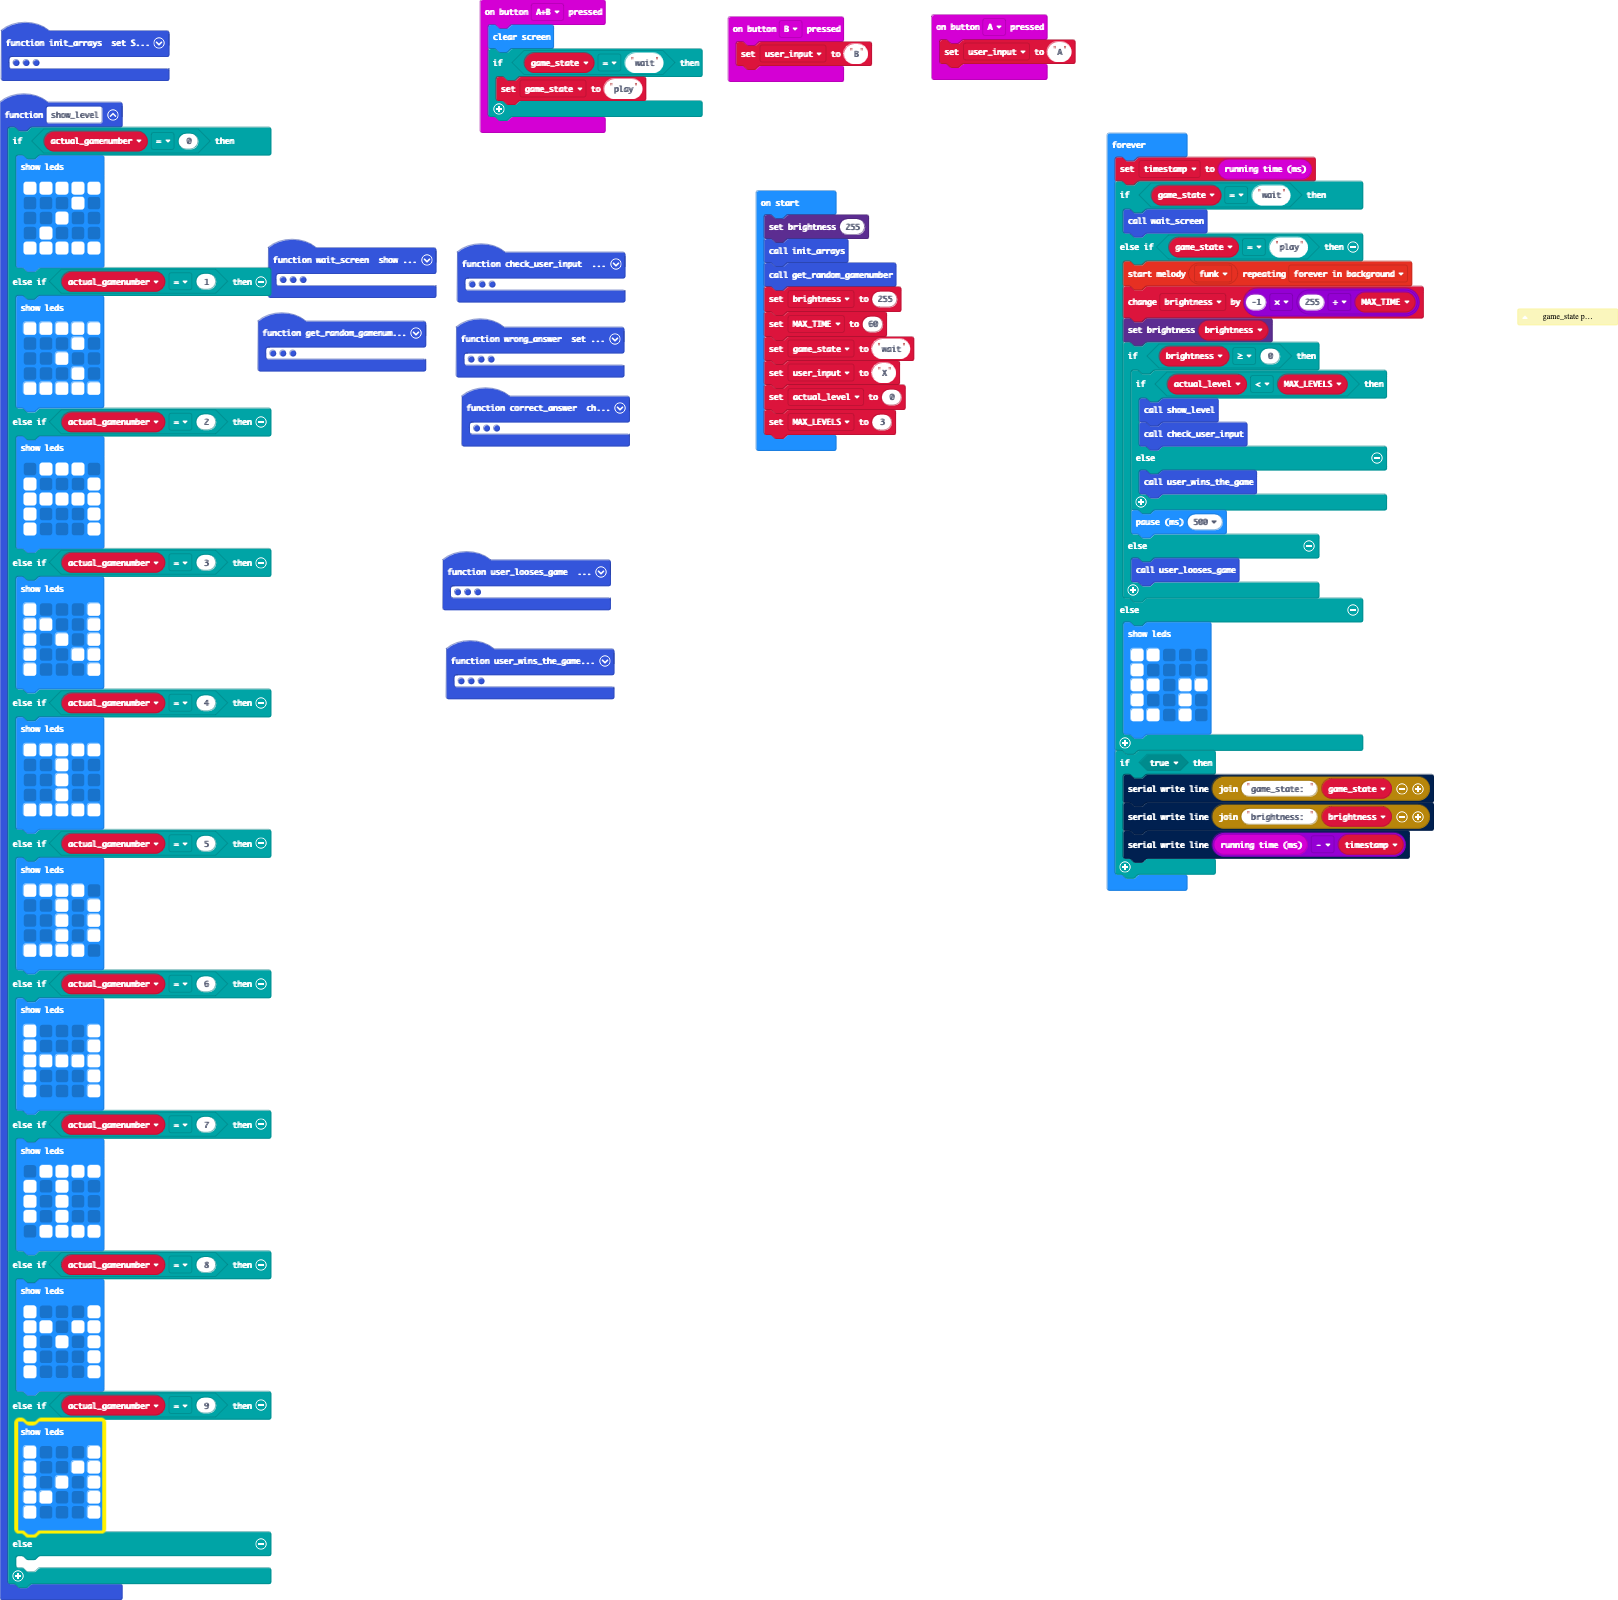
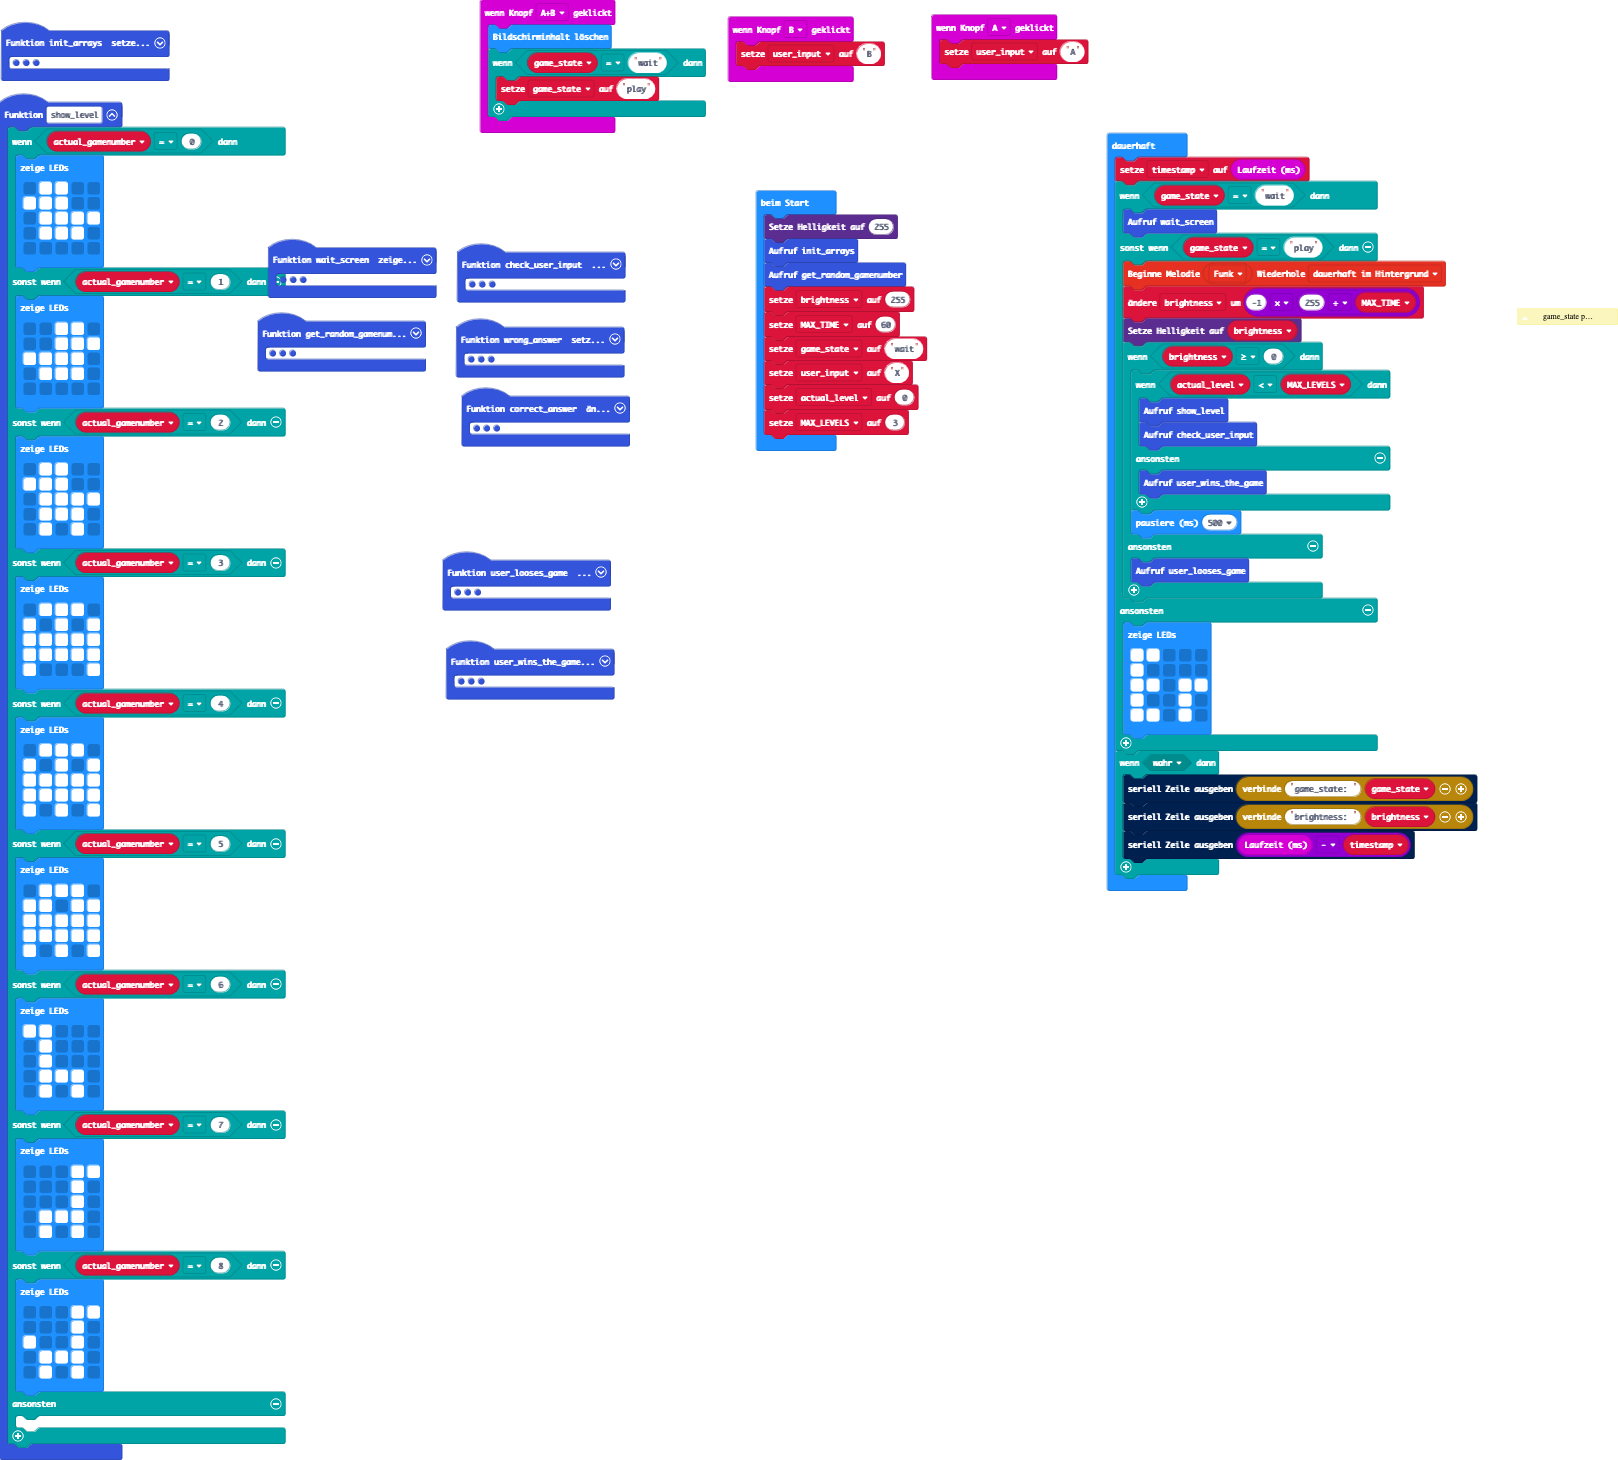
add pattern animals

diff --git a/main.ts b/main.ts
@@ -73,83 +73,75 @@ function correct_answer () {
 function show_level () {
     if (actual_gamenumber == 0) {
         basic.showLeds(`
-            # # # # #
-            . . . # .
-            . . # . .
-            . # . . .
-            # # # # #
+            . # # . .
+            # # # . .
+            . # # # #
+            . # # # .
+            . . . . .
             `)
     } else if (actual_gamenumber == 1) {
         basic.showLeds(`
-            # # # # #
-            . . . # .
-            . . # . .
-            . . . # .
-            # # # # #
+            . . # # .
+            . . # # #
+            # # # # .
+            . # # # .
+            . . . . .
             `)
     } else if (actual_gamenumber == 2) {
         basic.showLeds(`
+            . # # . .
+            # # # . .
+            . # # # #
             . # # # .
-            # . . . #
-            # # # # #
-            # . . . #
-            # . . . #
+            . # . # .
             `)
     } else if (actual_gamenumber == 3) {
         basic.showLeds(`
-            # . . . #
-            # # . . #
+            . # # # .
             # . # . #
-            # . . # #
+            # # # # #
+            # # # # #
             # . . . #
             `)
     } else if (actual_gamenumber == 4) {
         basic.showLeds(`
+            . # # # .
+            # . # . #
             # # # # #
-            . . # . .
-            . . # . .
-            . . # . .
             # # # # #
+            # . # . #
             `)
     } else if (actual_gamenumber == 5) {
         basic.showLeds(`
-            # # # # .
-            . . # . #
-            . . # . #
-            . . # . #
-            # # # # .
+            . # # # .
+            # # . # #
+            # # # # #
+            # # # # #
+            # . # . #
             `)
     } else if (actual_gamenumber == 6) {
         basic.showLeds(`
-            # . . . #
-            # . . . #
-            # # # # #
-            # . . . #
-            # . . . #
+            # # . . .
+            . # . . .
+            . # . . .
+            . # # # .
+            . # . # .
             `)
     } else if (actual_gamenumber == 7) {
         basic.showLeds(`
-            . # # # #
-            # . # . .
-            # . # . .
-            # . # . .
-            . # # # #
+            . . . # #
+            . . . # .
+            . . . # .
+            . # # # .
+            . # . # .
             `)
     } else if (actual_gamenumber == 8) {
         basic.showLeds(`
-            # . . . #
-            # # . # #
-            # . # . #
-            # . . . #
-            # . . . #
-            `)
-    } else if (actual_gamenumber == 9) {
-        basic.showLeds(`
-            # . . . #
-            # . . # #
-            # . # . #
-            # # . . #
-            # . . . #
+            . . . # #
+            . . . # .
+            # . . # .
+            . # # # .
+            . # . # .
             `)
     } else {
     	
